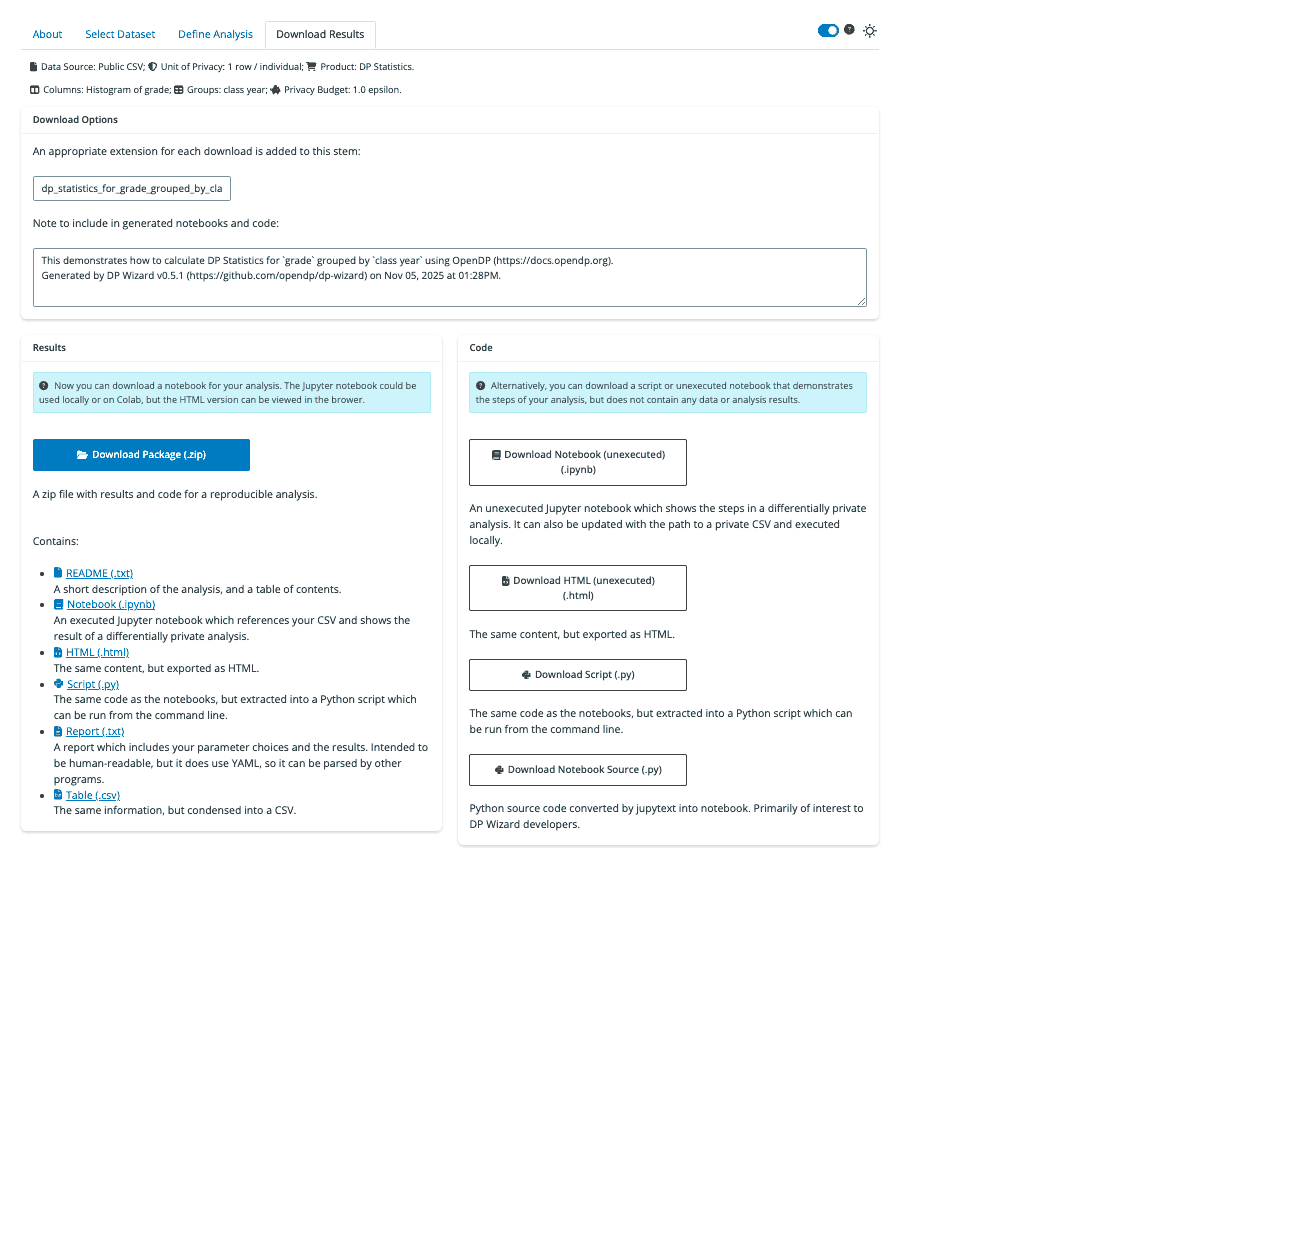
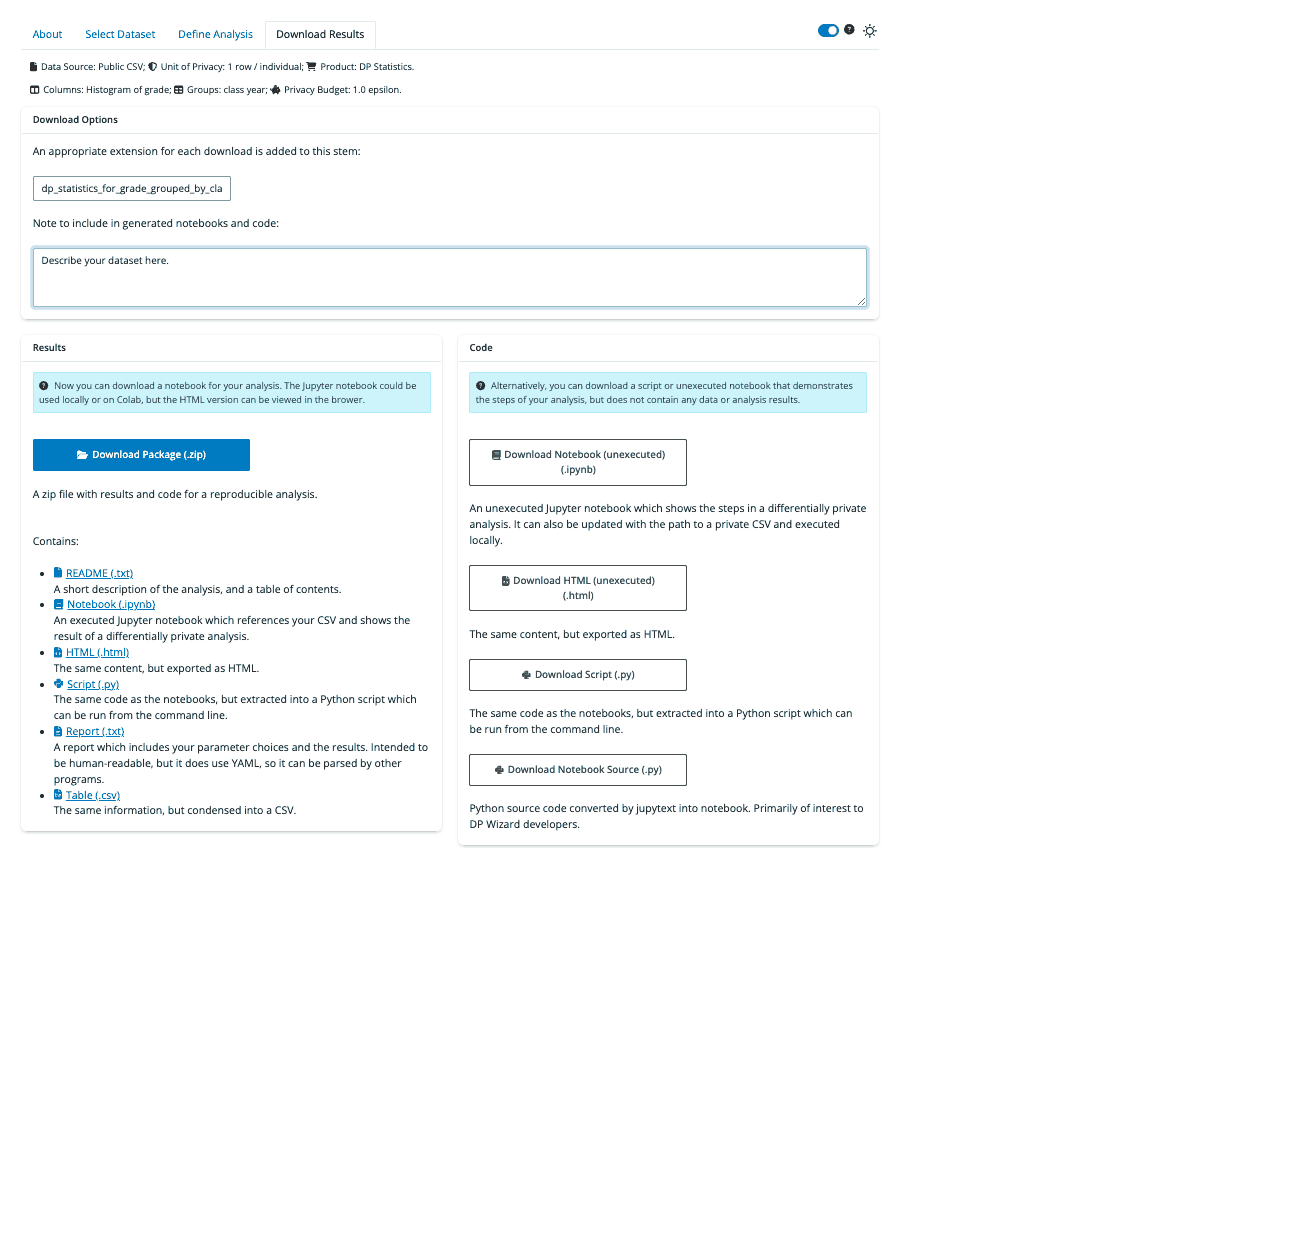
slides ToC now has links

Changed region(s): [[0.0, 0.1875, 0.6769, 0.25]]

diff --git a/docs/index.html b/docs/index.html
@@ -55,15 +55,22 @@ to differential privacy with OpenDP and DP Wizard</h3>
 <p>(“✋” = class participation!)</p>
 </td>
 <td>
-<!-- - Who should care about privacy? (and a bio) -->
+<!-- Linking by ID overrides the slideshow JS, but only works in a new window. -->
 <ul>
-<li>Class grades problem</li>
-<li>Let’s do differential privacy! ✋</li>
-<li>Interpretation of DP results ✋</li>
-<li>Privacy budgets and epsilon ✋</li>
-<li>DP Wizard live demo ✋</li>
-<li>Walk through OpenDP notebook</li>
-<li>Wider view</li>
+<li><a target="_blank" href="#class-grades-problem">Class grades
+problem</a></li>
+<li><a target="_blank" href="#lets-do-differential-privacy">Let’s do
+differential privacy! ✋</a></li>
+<li><a target="_blank" href="#what-does-this-mean-1">Interpretation of
+DP results ✋</a></li>
+<li><a target="_blank" href="#privacy-budgets-and-epsilon">Privacy
+budgets and epsilon ✋</a></li>
+<li><a target="_blank" href="#dp-wizard-preview-select-dataset">DP
+Wizard demo ✋</a></li>
+<li><a target="_blank" href="#introduction-to-the-opendp-library">Walk
+through OpenDP notebook</a></li>
+<li><a target="_blank" href="#what-else-can-we-do-with-dp">Wider
+view</a></li>
 </ul>
 </td>
 </tr>
@@ -900,15 +907,15 @@ most well developed.</li>
 <td>
 <h3 id="with-opendp">With OpenDP</h3>
 <ul>
-<li>Quantiles (<a
-href="https://docs.opendp.org/en/stable/api/user-guide/transformations/aggregation-quantile.html">documentation</a>)</li>
-<li>PCA (<a
-href="https://docs.opendp.org/en/stable/getting-started/statistical-modeling/pca.html">documentation</a>)</li>
-<li>RAPPOR (<a
-href="https://docs.opendp.org/en/stable/api/python/opendp.measurements.html#opendp.measurements.make_randomized_response_bitvec">documentation</a>)</li>
-<li>Linear regression (<a
-href="https://docs.opendp.org/en/stable/getting-started/statistical-modeling/regression.html#Linear-Regression">tutorial
-example</a>)</li>
+<li>(<a
+href="https://docs.opendp.org/en/stable/api/user-guide/transformations/aggregation-quantile.html">Quantiles</a>)</li>
+<li>(<a
+href="https://docs.opendp.org/en/stable/getting-started/statistical-modeling/pca.html">PCA</a>)</li>
+<li>(<a
+href="https://docs.opendp.org/en/stable/api/python/opendp.measurements.html#opendp.measurements.make_randomized_response_bitvec">RAPPOR</a>)</li>
+<li>(<a
+href="https://docs.opendp.org/en/stable/api/python/opendp.extras.sklearn.linear_model.html">Linear
+regression</a>)</li>
 </ul>
 </td>
 <td>

diff --git a/tests/test_app.py b/tests/test_app.py
@@ -234,6 +234,9 @@ def test_local_app_downloads(page: Page, local_app: ShinyAppProc):  # pragma: no
     # For more compact screenshots:
     page.evaluate("document.body.style.zoom=0.66")
 
+    # Turn off tutorial:
+    page.locator("#tutorial_mode").click()
+
     page.locator("#max_rows").fill("10000")
     expect(page.get_by_text(dataset_release_warning)).not_to_be_visible()
     page.get_by_role("tab", name="Define Analysis").click()
@@ -269,6 +272,7 @@ def test_local_app_downloads(page: Page, local_app: ShinyAppProc):  # pragma: no
 
     # -- Download Results --
     page.get_by_role("button", name="Download Results").click()
+    page.locator("#custom_download_note").fill("Describe your dataset here.")
     screenshot(page, "download-results")
 
     # Right now, the significant test start-up costs mean

diff --git a/docs/index.md b/docs/index.md
@@ -18,14 +18,15 @@ These slides: `https://opendp.github.io/dp-wizard`
 </td>
 <td>
 
-<!-- - Who should care about privacy? (and a bio) -->
-- Class grades problem
-- Let's do differential privacy! ✋
-- Interpretation of DP results ✋
-- Privacy budgets and epsilon ✋
-- DP Wizard live demo ✋
-- Walk through OpenDP notebook
-- Wider view
+<!-- Linking by ID overrides the slideshow JS, but only works in a new window. -->
+
+- <a target="_blank" href="#class-grades-problem">Class grades problem</a>
+- <a target="_blank" href="#lets-do-differential-privacy">Let's do differential privacy! ✋</a>
+- <a target="_blank" href="#what-does-this-mean-1">Interpretation of DP results ✋</a>
+- <a target="_blank" href="#privacy-budgets-and-epsilon">Privacy budgets and epsilon ✋</a>
+- <a target="_blank" href="#dp-wizard-preview-select-dataset">DP Wizard demo ✋</a>
+- <a target="_blank" href="#introduction-to-the-opendp-library">Walk through OpenDP notebook</a>
+- <a target="_blank" href="#what-else-can-we-do-with-dp">Wider view</a>
 
 </td>
 </tr>
@@ -654,10 +655,10 @@ If we try to run more queries at this point, it will error. Once the privacy bud
 
 ### With OpenDP
 
-- Quantiles ([documentation](https://docs.opendp.org/en/stable/api/user-guide/transformations/aggregation-quantile.html))
-- PCA ([documentation](https://docs.opendp.org/en/stable/getting-started/statistical-modeling/pca.html))
-- RAPPOR ([documentation](https://docs.opendp.org/en/stable/api/python/opendp.measurements.html#opendp.measurements.make_randomized_response_bitvec))
-- Linear regression ([tutorial example](https://docs.opendp.org/en/stable/getting-started/statistical-modeling/regression.html#Linear-Regression))
+- ([Quantiles](https://docs.opendp.org/en/stable/api/user-guide/transformations/aggregation-quantile.html))
+- ([PCA](https://docs.opendp.org/en/stable/getting-started/statistical-modeling/pca.html))
+- ([RAPPOR](https://docs.opendp.org/en/stable/api/python/opendp.measurements.html#opendp.measurements.make_randomized_response_bitvec))
+- ([Linear regression](https://docs.opendp.org/en/stable/api/python/opendp.extras.sklearn.linear_model.html))
 
 </td>
 <td>
